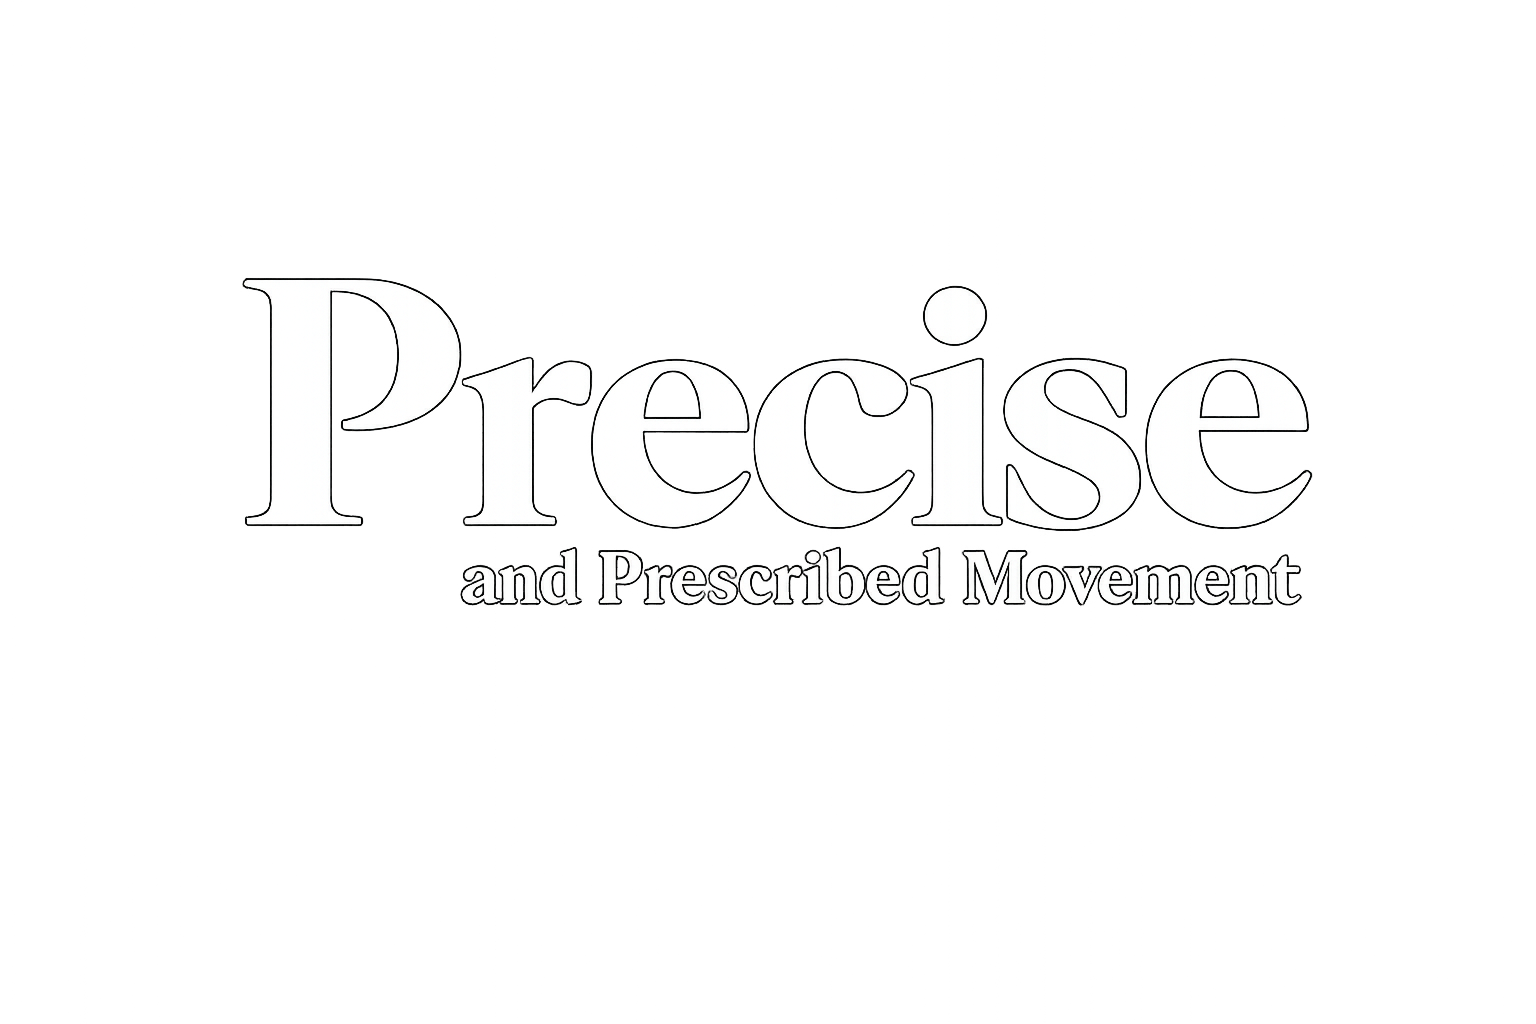
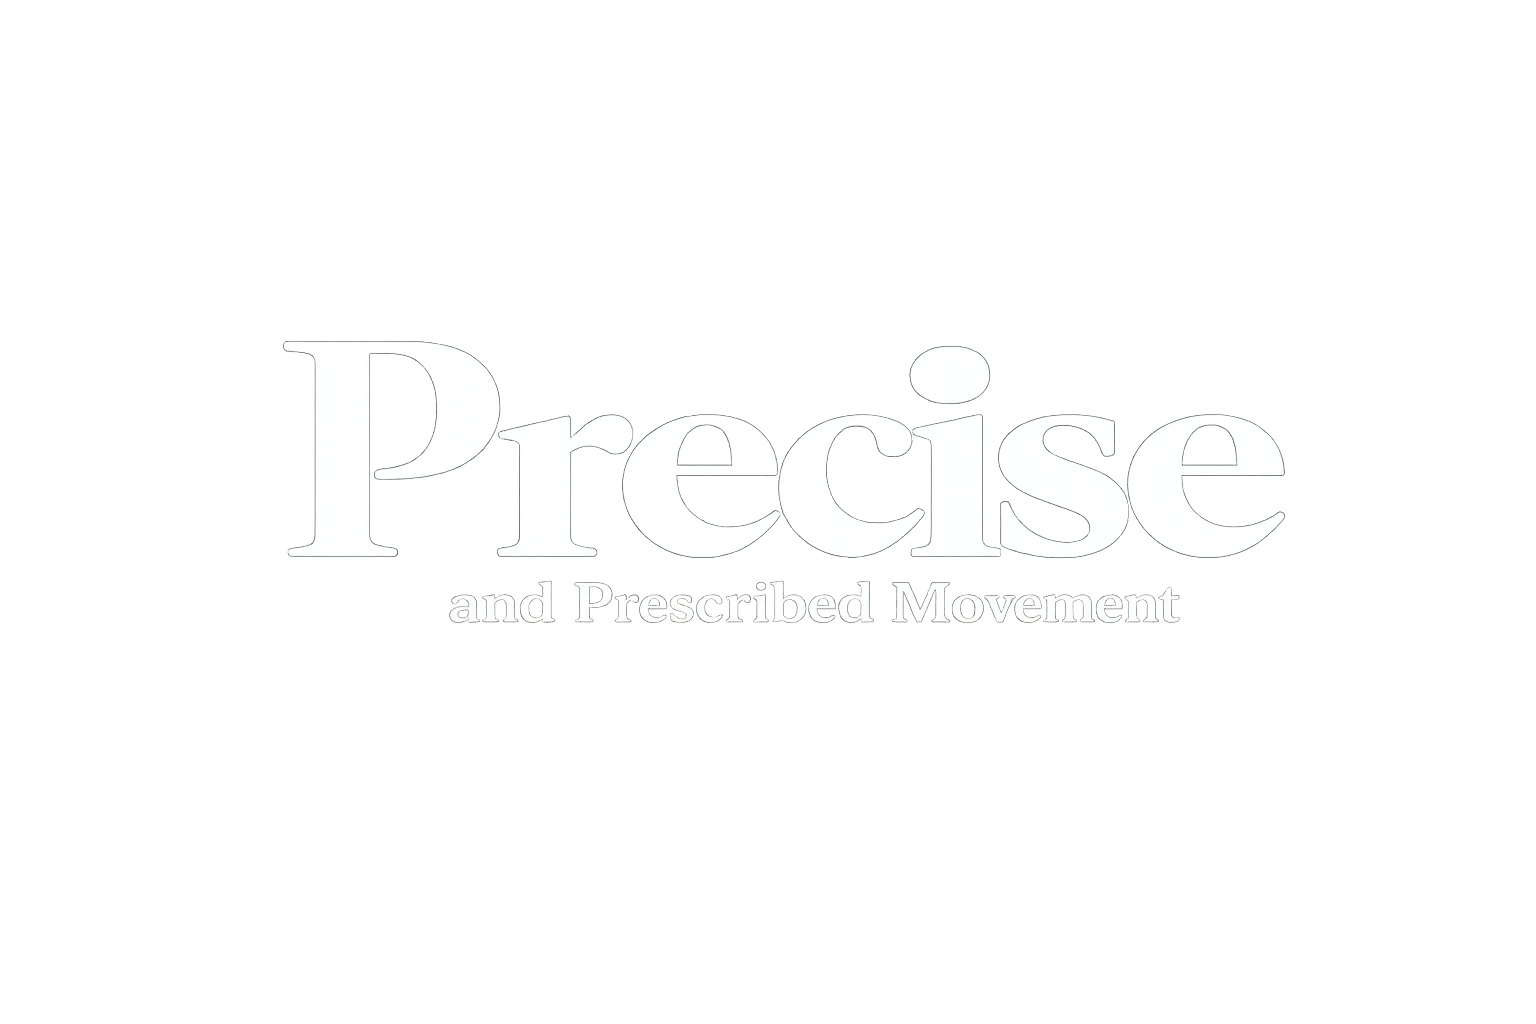
c

diff --git a/index.html b/index.html
@@ -385,6 +385,10 @@ src="https://www.facebook.com/tr?id=252561139416214&amp;ev=PageView&amp;noscript
       background-color: rgba(0, 0, 0, 0.11);
     
     font-size: 18px;
+    padding: 10px 0;
+  }
+  .header__wrap {
+    padding: 5px 0;
   }
   .header a,
   .header a.link-list__link,